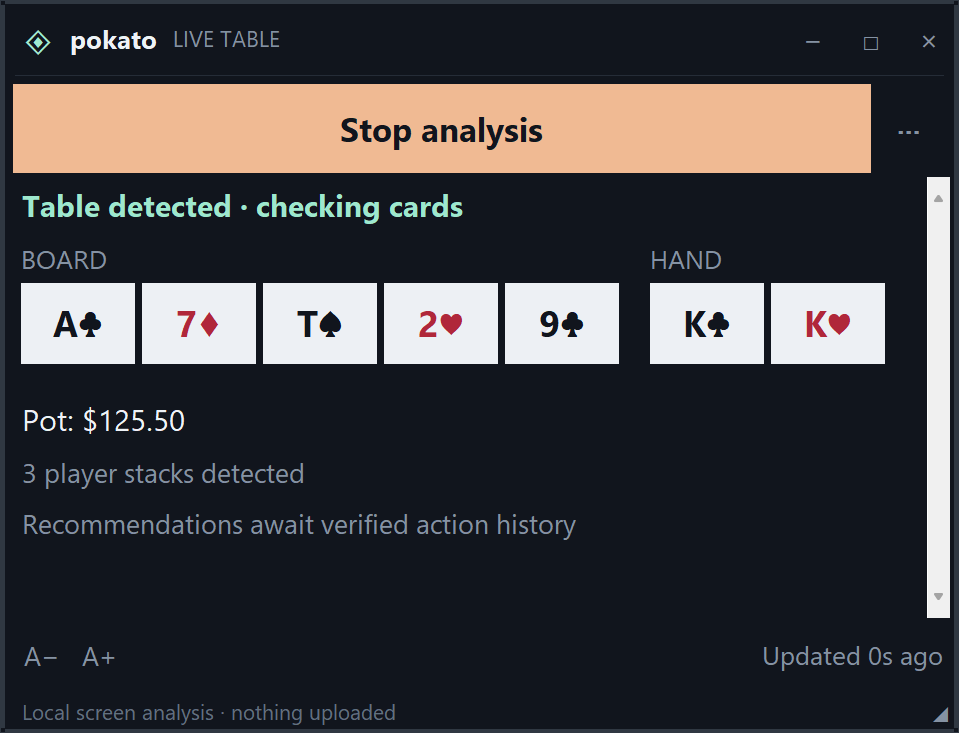
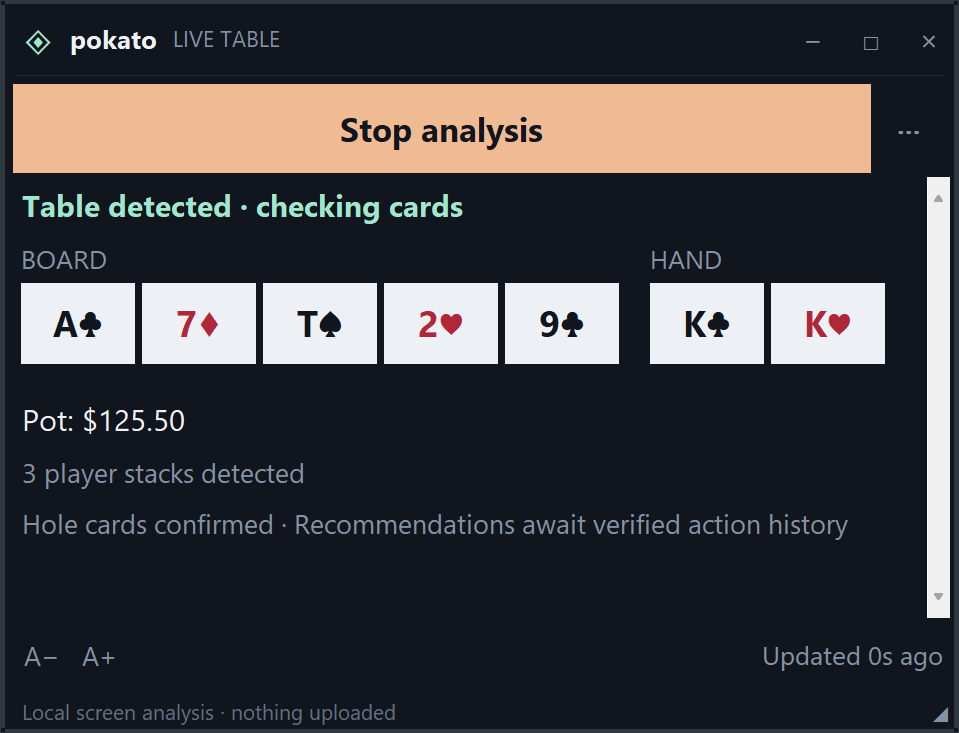
test: validate and package hole-card tracking fixes

Changed region(s): [[0.0302, 0.6903, 0.877, 0.7503]]

diff --git a/scripts/benchmark_hole_stability.py b/scripts/benchmark_hole_stability.py
@@ -1,0 +1,88 @@
+"""Replay labeled card pixels at varying sizes, with controlled OCR rejections."""
+import argparse
+from dataclasses import replace
+import json
+from pathlib import Path
+from unittest.mock import patch
+from PIL import Image
+from pokato.vision.automatic import AutoReading, arrange, detect_cards, hand_pairs
+from pokato.vision.hole_tracking import HoleCardTracker
+from pokato.vision.ocr import LocalOCR
+
+
+def variants(image):
+    yield 'original', image
+    for scale in (.70, .71):
+        yield f'scale-{scale}', image.resize((round(image.width*scale), round(image.height*scale)), Image.Resampling.LANCZOS)
+    desktop = Image.new('RGB', (image.width+80, image.height+180), '#20242a')
+    desktop.paste(image, (40, 130))
+    yield 'desktop-padding', desktop
+
+
+def expected(fields, prefix, count):
+    return tuple(None if fields.get(f'{prefix}{i}.rank') in (None, 'empty') or
+                 fields.get(f'{prefix}{i}.suit') in (None, 'empty') else
+                 fields[f'{prefix}{i}.rank']+fields[f'{prefix}{i}.suit'] for i in range(count))
+
+
+def compare(actual, truth, counts):
+    for index, value in enumerate(truth):
+        observed = actual[index] if index < len(actual) else None
+        if observed and observed != value:
+            counts['wrong'] += 1
+        elif value:
+            counts['correct' if observed == value else 'unknown'] += 1
+
+
+def main():
+    parser = argparse.ArgumentParser(description=__doc__)
+    parser.add_argument('--manifest', type=Path, required=True)
+    parser.add_argument('--output', type=Path, default=Path('artifacts/hole-stability.json'))
+    args = parser.parse_args()
+    manifest = json.loads(args.manifest.read_text(encoding='utf-8'))
+    frames = [row for row in manifest['frames'] if row.get('split', 'test') == 'test']
+    if not frames:
+        parser.error('Manifest has no test frames')
+    report = {'scope': 'Raw card pixels at four layouts/sizes; controlled alternating OCR rejection for tracking',
+              'board': dict(correct=0, unknown=0, wrong=0), 'hand': dict(correct=0, unknown=0, wrong=0),
+              'tracked': dict(correct=0, unknown=0, wrong=0), 'verified_held_pairs': 0, 'frames': []}
+    tracker, ocr = HoleCardTracker(), LocalOCR()
+    timestamp = 0.
+    with patch('requests.sessions.Session.request', side_effect=AssertionError('Inference must stay offline')):
+        for row in frames:
+            with Image.open(args.manifest.parent/row['image']) as opened:
+                image = opened.convert('RGB')
+            truth_board, truth_hand = expected(row['fields'], 'board', 5), expected(row['fields'], 'hole', 2)
+            for label, sample in variants(image):
+                cards = detect_cards(sample, ocr)
+                board, hand, issues = arrange(cards)
+                raw = AutoReading(board=board, hand=hand, issues=issues, table_found=bool(board or hand),
+                                  source='local replay', timestamp=timestamp,
+                                  hand_views=hand_pairs(cards), image_size=sample.size)
+                tracked = tracker.update(raw, now=timestamp)
+                board_values, hand_values = tuple(c.value for c in board), tuple(c.value for c in hand)
+                tracked_values = tuple(c.value for c in tracked.hand)
+                compare(board_values, truth_board, report['board'])
+                compare(hand_values, truth_hand, report['hand'])
+                compare(tracked_values, truth_hand, report['tracked'])
+                if len(hand) == 2:
+                    slot = len(report['frames']) % 2
+                    partial = tuple(replace(c, rank=None, suit=None, score=.4) if i == slot else c
+                                    for i, c in enumerate(hand))
+                    rejected = replace(raw, timestamp=timestamp+1, hand=partial, hand_views=(partial,))
+                    held = tracker.update(rejected, now=timestamp+1)
+                    compare(tuple(c.value for c in held.hand), truth_hand, report['tracked'])
+                    if tracked_values == truth_hand and tuple(c.value for c in held.hand) == truth_hand and held.hand_held:
+                        report['verified_held_pairs'] += 1
+                report['frames'].append(dict(image=row['image'], variant=label, board=board_values,
+                                             hand=hand_values, tracked=tracked_values))
+                timestamp += 2
+    report['ok'] = all(report[group]['wrong'] == 0 for group in ('board', 'hand', 'tracked'))
+    args.output.parent.mkdir(parents=True, exist_ok=True)
+    args.output.write_text(json.dumps(report, indent=2), encoding='utf-8')
+    print(json.dumps({key: value for key, value in report.items() if key != 'frames'}))
+    return 0 if report['ok'] else 1
+
+
+if __name__ == '__main__':
+    raise SystemExit(main())

diff --git a/scripts/automatic_readability_smoke.py b/scripts/automatic_readability_smoke.py
@@ -40,7 +40,8 @@ def main():
                                 for value in ('Ac', '7d', 'Ts', '2h', '9c')),
                     hand=(Card((0, 0, 1, 1), 'K', 'c', 1.), Card((0, 0, 1, 1), 'K', 'h', 1.)),
                     pots=(Amount('125.50', '125.50', False, 'pot'),),
-                    hero_verified=True, table_found=True)
+                    hero_verified=True, table_found=True,
+                    hand_status='Hole cards held · last read 5s ago', hand_held=True)
                 hud.deliver(reading)
                 root.update()
                 assert root.winfo_width() <= display.width and root.winfo_height() <= display.height

diff --git a/docs/AUTOMATIC_READER.md b/docs/AUTOMATIC_READER.md
@@ -1,4 +1,4 @@
-# Automatic screen reader · 0.6.0
+# Automatic screen reader · 0.6.1
 
 Open **`dist\Pokato.exe`**, keep one poker table visible, and click **Start analysis**.
 Only the HUD opens. There is no window picker, region drawing, profile selection,
@@ -23,6 +23,38 @@ inference. The timestamp shows how old the latest reading is.
 - Confirm the hand's owner when repeated account/seat text or duplicate header
   cards supply an anchor. Otherwise display **VISIBLE HAND** and the uncertainty.
 - Re-detect on every frame, including after moving or resizing the poker window.
+
+## Hole-card extraction and tracking
+
+Version 0.6.1 selects the upper-left rank independently of the suit's size. It
+preserves glyph proportions when rectifying fanned cards, retries faces clipped
+by overlays, adapts foreground extraction to shaded cards, and excludes nearby
+banner letters from suit masks. A complete, legible header pair is preferred
+over a larger partial pair. Conflicting complete crop variants remain unknown.
+
+For live capture, each hole card needs two independent observations. Two
+matching copies at distinct screen locations can corroborate a pair in one
+frame. Otherwise matching frames build evidence for each slot independently,
+including alternating partial readings. Re-delivering one frame does not count
+as another observation. Single-image analysis remains an optical reading without
+cross-frame confirmation.
+
+Once corroborated, a card can survive a brief OCR rejection only when the
+uncertain rank/suit's visible shape still matches in a tracked view. Rank and
+suit are compared separately, so a matching rank cannot hide a changed suit.
+The HUD explicitly labels held readings and their age. At each update, an
+unreadable card can only be held if its last accepted read was within **12
+seconds**, even while the other card stays clear.
+
+Both slots and all accumulated evidence clear on observed board retreat or
+replacement, conflicting card components, changed uncertain glyphs, missing
+hole-card views, table loss, capture restart, Stop, or stale capture. If the
+board disappears while the old hand graphics linger, the old pair stays withheld
+until new-card evidence or a visible deal transition allows fresh confirmation.
+No old/new pair is assembled across those boundaries. The evidence reset is
+conservative: interrupted capture can require confirming the hand again.
+Deal detection depends on visible transitions; a transition entirely missed
+between captures cannot be recovered from unchanged pixels.
 
 The production reader does not load HD Poker profiles or any training screenshots.
 RapidOCR/PP-OCRv6 provides pretrained text detection and recognition; OpenCV handles
@@ -68,9 +100,11 @@ missing board slots, exposed-hand ambiguity, multiple boards, chat text falsely
 resembling pots, amount parsing and desktop-capture lifecycle.
 
 Ten previously labeled HD Poker captures were evaluated with no profile loaded:
-all **19 board cards** were correct. Seven of ten complete hand pairs were read
-correctly and anchored to the hero; the remaining three faded/folded hand pairs
-were withheld. No incorrect accepted cards occurred in this small corpus. This
+all **19 board cards and 20 hole cards** were read correctly after the extraction
+fix, including the three shaded/folded pairs previously withheld. Seven pairs
+also had an initial hero anchor; the other three remain visible hands until
+ownership is established by session continuity. No incorrect accepted cards
+occurred in this small corpus. This
 does not establish accuracy across all clients, themes or game states. The local
 captures and labels stay outside Git.
 
@@ -83,9 +117,29 @@ evaluated. The report separates correct, withheld and incorrect accepted cards;
 it exits unsuccessfully if any annotated card is incorrectly accepted. This
 checks cards, not player identities, amount accuracy or strategic validity.
 
+`scripts/benchmark_hole_stability.py --manifest <labels.json>` replays the same
+test images at original size, 70%, 71%, and with desktop padding. It evaluates
+raw cards and tracked cards separately, then injects alternating OCR-confidence
+rejections while preserving the observed glyphs. This distinguishes optical
+extraction from controlled tracking failures. Unit tests cover all 52 cards in
+independent fanned/shaded fixtures, disconnected stems, preferred duplicate
+views, alternating failures, glyph changes, individual expiry, source changes,
+board resets, lingering old graphics, resize, and identical cards after a
+visible between-deal frame.
+
+On those 40 correlated HD Poker image variants, all **80 hole-card and 76
+board-card observations** were correct. Tracking, including the controlled
+rejections, produced 157 correct and three initially withheld card observations,
+with no incorrect accepted cards. All 39 already-corroborated pairs survived the
+injected rejection; the remaining pair was still collecting initial evidence.
+These figures are finite replay results, not a live-play accuracy guarantee.
+The full suite has **123 tests**, including 18 tracking sequence cases.
+
 The desktop smoke test clicks the actual Start button, reads captured pixels
 from an independent fixture, stops/restarts while OCR is running, rejects stale
-results and verifies immediate clearing. All network requests are blocked during
+results and verifies immediate clearing. It also checks controlled alternating
+OCR rejection, an actual blank between-deal screen, and actual next-deal pixels
+with a different pair. All network requests are blocked during
 that test. The fixture PNG is packaged only for diagnostics; it is not a model or
 a production lookup table.
 

diff --git a/docs/COMMITS.md b/docs/COMMITS.md
@@ -234,3 +234,34 @@ corpora do not establish universal skin support. External action reconstruction
 and recommendation integration remain outstanding in the automatic pipeline.
 
 Binary files and private captures/reports remain ignored. Commits are local.
+
+## Hole-card reliability: version 0.6.1
+
+Three dependency-ordered local commits:
+
+1. `77f71d8 fix(vision): extract fanned and shaded hole cards correctly`
+   — preserve card geometry, separate upper-left ranks from larger suits, recover
+   clipped faces, adapt to shaded backgrounds, isolate banner fragments, prefer
+   complete views, and expose normalized glyph evidence. Independent fixtures
+   cover every card in both clear and shaded fanned hands.
+2. `a8f5ff2 fix(hud): track corroborated hole cards within visible deals`
+   — per-slot corroboration, independent duplicate-view evidence, explicit held
+   provenance, bounded age, glyph/position continuity, and whole-pair clearing on
+   deal evidence. Includes 18 sequence tests and a desktop diagnostic that checks
+   alternating controlled rejections and actual between-deal/new-deal pixels.
+3. `test: validate and package hole-card tracking fixes`
+   — reusable resized/padded replay benchmark, held-state readability checks,
+   updated behavior/limits, version 0.6.1 and the rebuilt single `dist\Pokato.exe`.
+
+Validation commands are `scripts/validate.py`, `scripts/automatic_smoke.py`,
+`scripts/automatic_readability_smoke.py`, and the executable's `--self-test-auto`
+mode. `scripts/benchmark_hole_stability.py --manifest <local-labels.json>` checks
+raw card pixels at four sizes/layouts and controlled tracking failures. Raw
+screens, labels, QA reports and binaries remain outside Git.
+
+Final checks: 123 unit tests; five display/DPI cases with held provenance; frozen
+offline Start/Stop/restart and actual between-deal/new-deal capture. Forty HD
+capture variants produced 80/80 correct hole cards and 76/76 correct board cards.
+Controlled tracking rejections produced no incorrect retained cards; initial
+confirmation withheld three card observations. These are correlated replay
+fixtures and do not establish general live-play accuracy.

diff --git a/README.md b/README.md
@@ -7,11 +7,16 @@ Pokato finds cards, the board, displayed pots and player stacks without selectin
 a window, drawing regions, teaching examples or loading a client profile.
 **Stop analysis** ends capture and immediately clears the readings.
 
-Version 0.6.0 opens only the HUD. OCR models are included in the executable and
+Version 0.6.1 opens only the HUD. OCR models are included in the executable and
 run locally; no API key, model download or GPU is required. Screens are analyzed
 in memory, not saved as a recording. Use **A− / A+** for text size and the **⋯**
 menu for screenshots, the practice table or optional advanced calibration tools.
 See [automatic reader behavior and validation](docs/AUTOMATIC_READER.md).
+
+Hole-card extraction handles fanned and shaded HD Poker cards. Live readings
+combine corroborated observations so a brief OCR rejection does not erase a
+confirmed card. Held cards are labeled; new-deal transitions and Stop clear
+their accumulated evidence.
 
 Detection adapts to card positions and fonts; it does not guarantee recognition
 of every skin. Tiny, faded, overlapping or unusual cards may remain unreadable.

diff --git a/docs/HD_POKER_CALIBRATION.md b/docs/HD_POKER_CALIBRATION.md
@@ -5,6 +5,12 @@ Open Pokato and click **Start analysis**. See the [automatic reader](AUTOMATIC_R
 for current behavior and measured results. This document records the optional
 manual calibration workflow from 0.5.2.
 
+Version 0.6.1 fixes fanned/shaded hole-card extraction and adds live per-card
+corroboration and deal-boundary clearing. The same ten labeled captures now have
+20/20 correct hole cards and 19/19 correct board cards without this profile.
+Current tracking behavior and its separate sequence tests are documented in the
+[automatic reader guide](AUTOMATIC_READER.md#hole-card-extraction-and-tracking).
+
 Real HD Poker 1.9.5 frames were captured locally on 2026-10-16: Windows,
 one nine-seat garden table, 250/500 play-money blinds, 3812 × 2138 client pixels.
 The reader remains client-independent; all HD Poker positions and examples live
